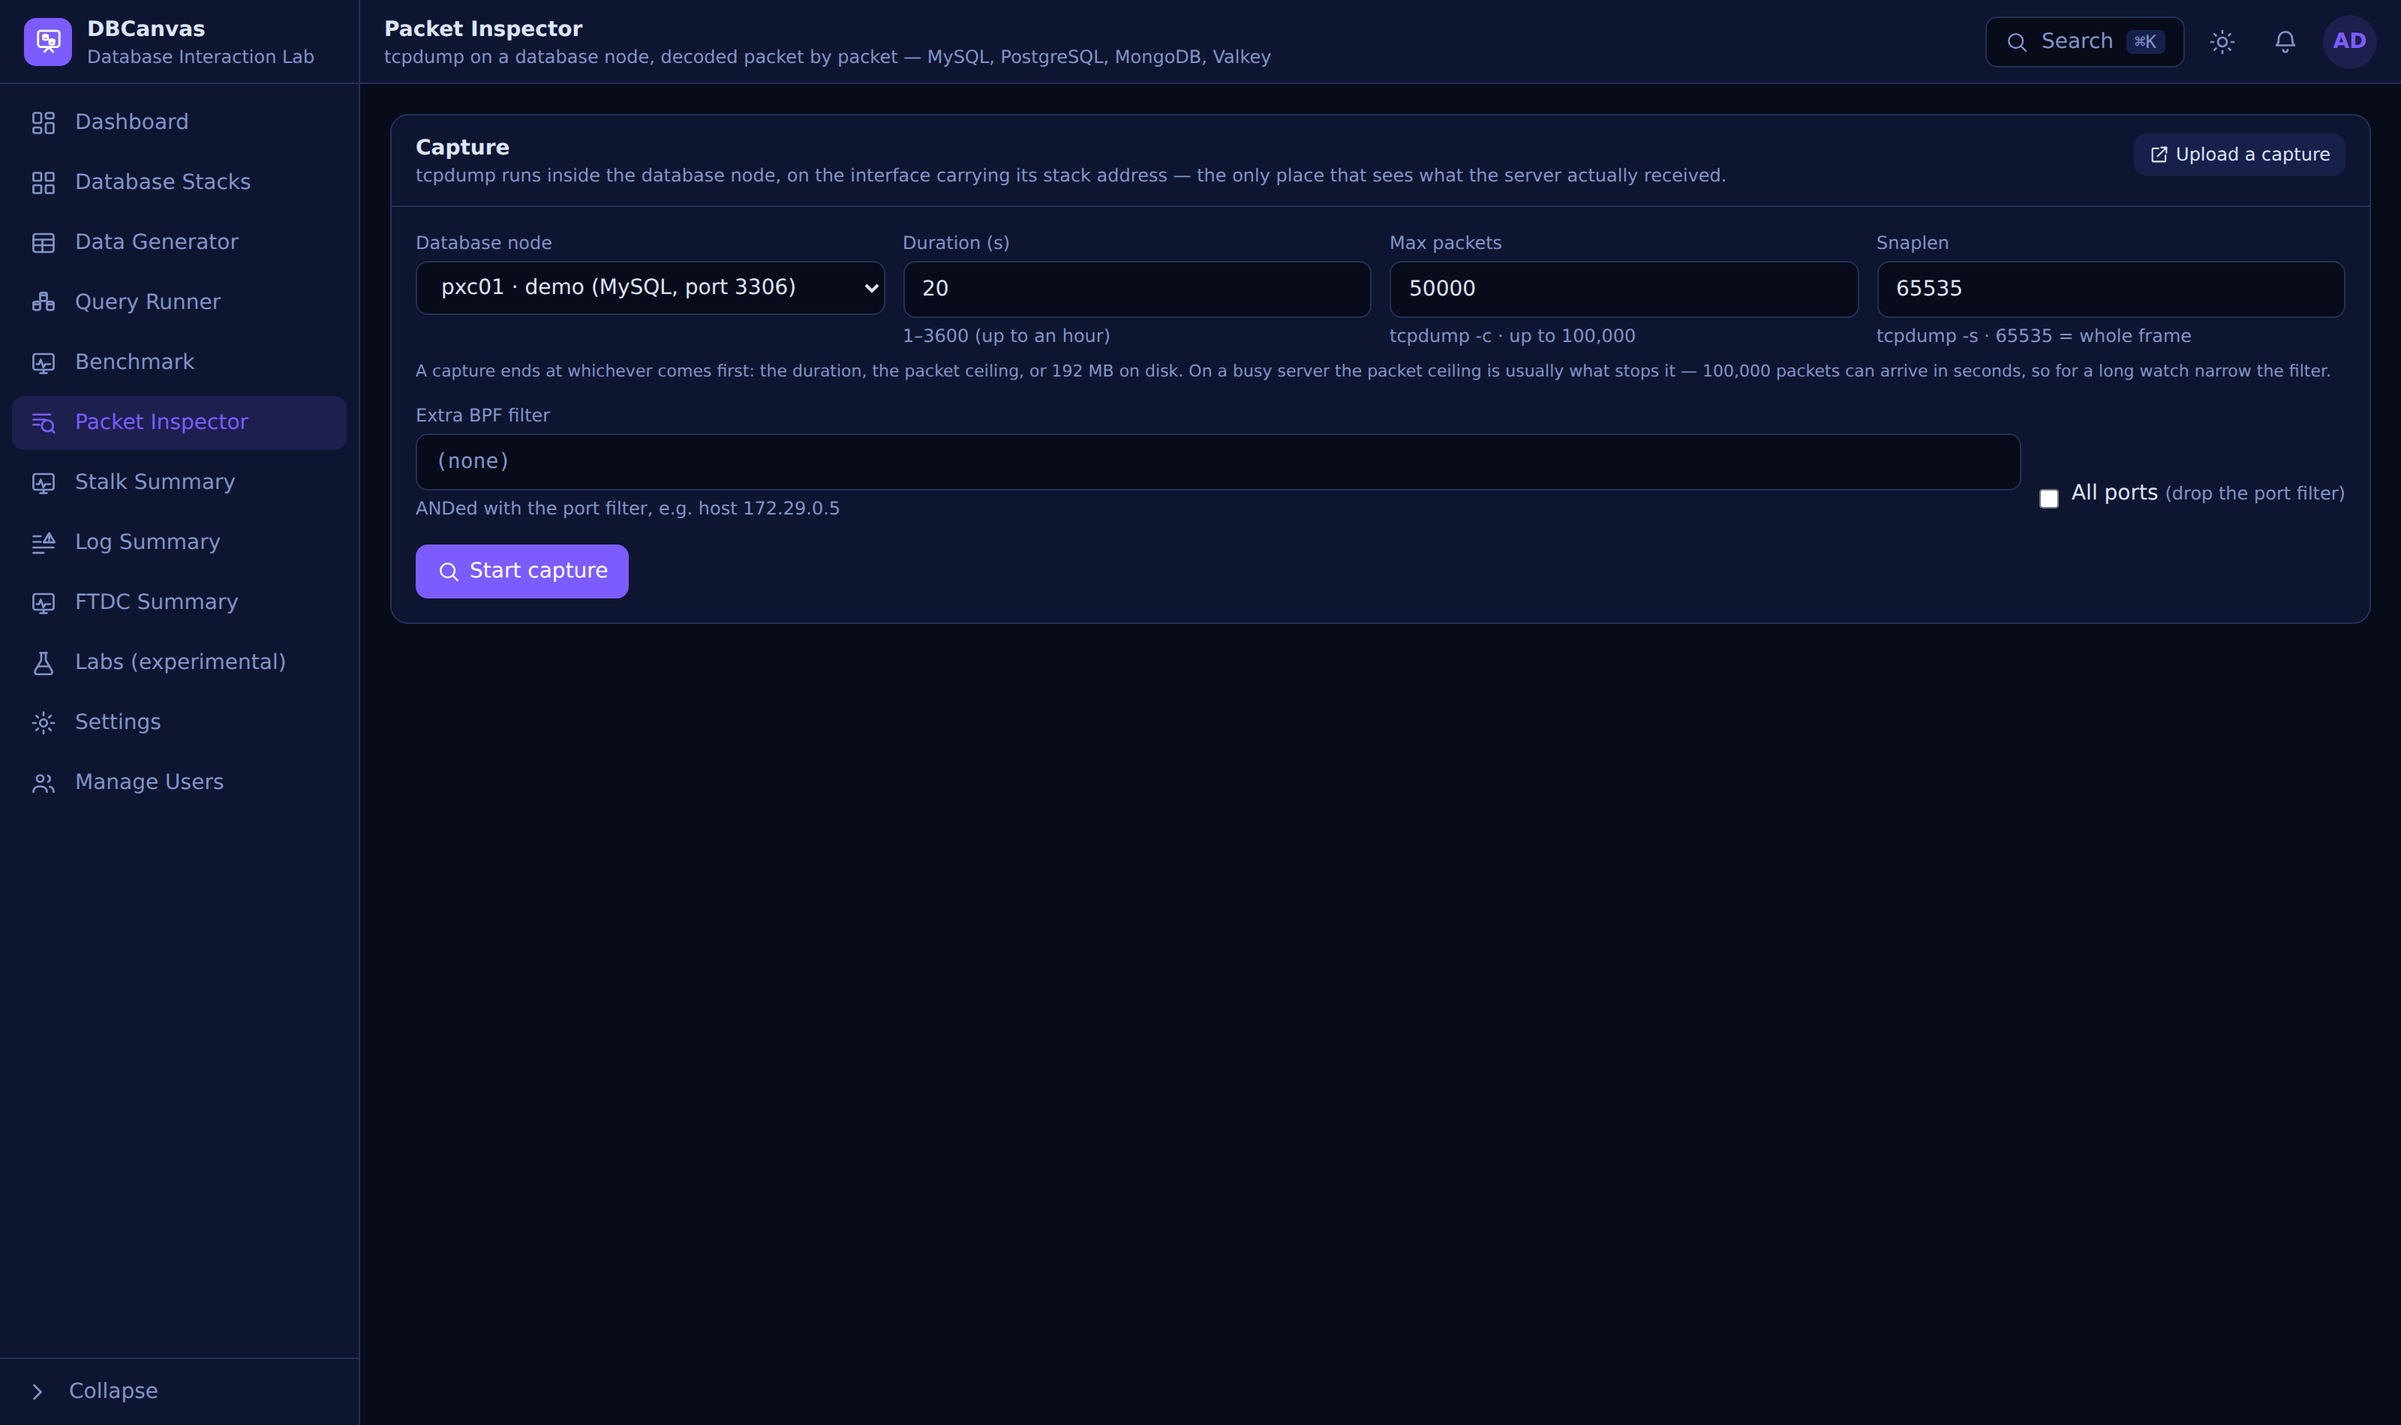
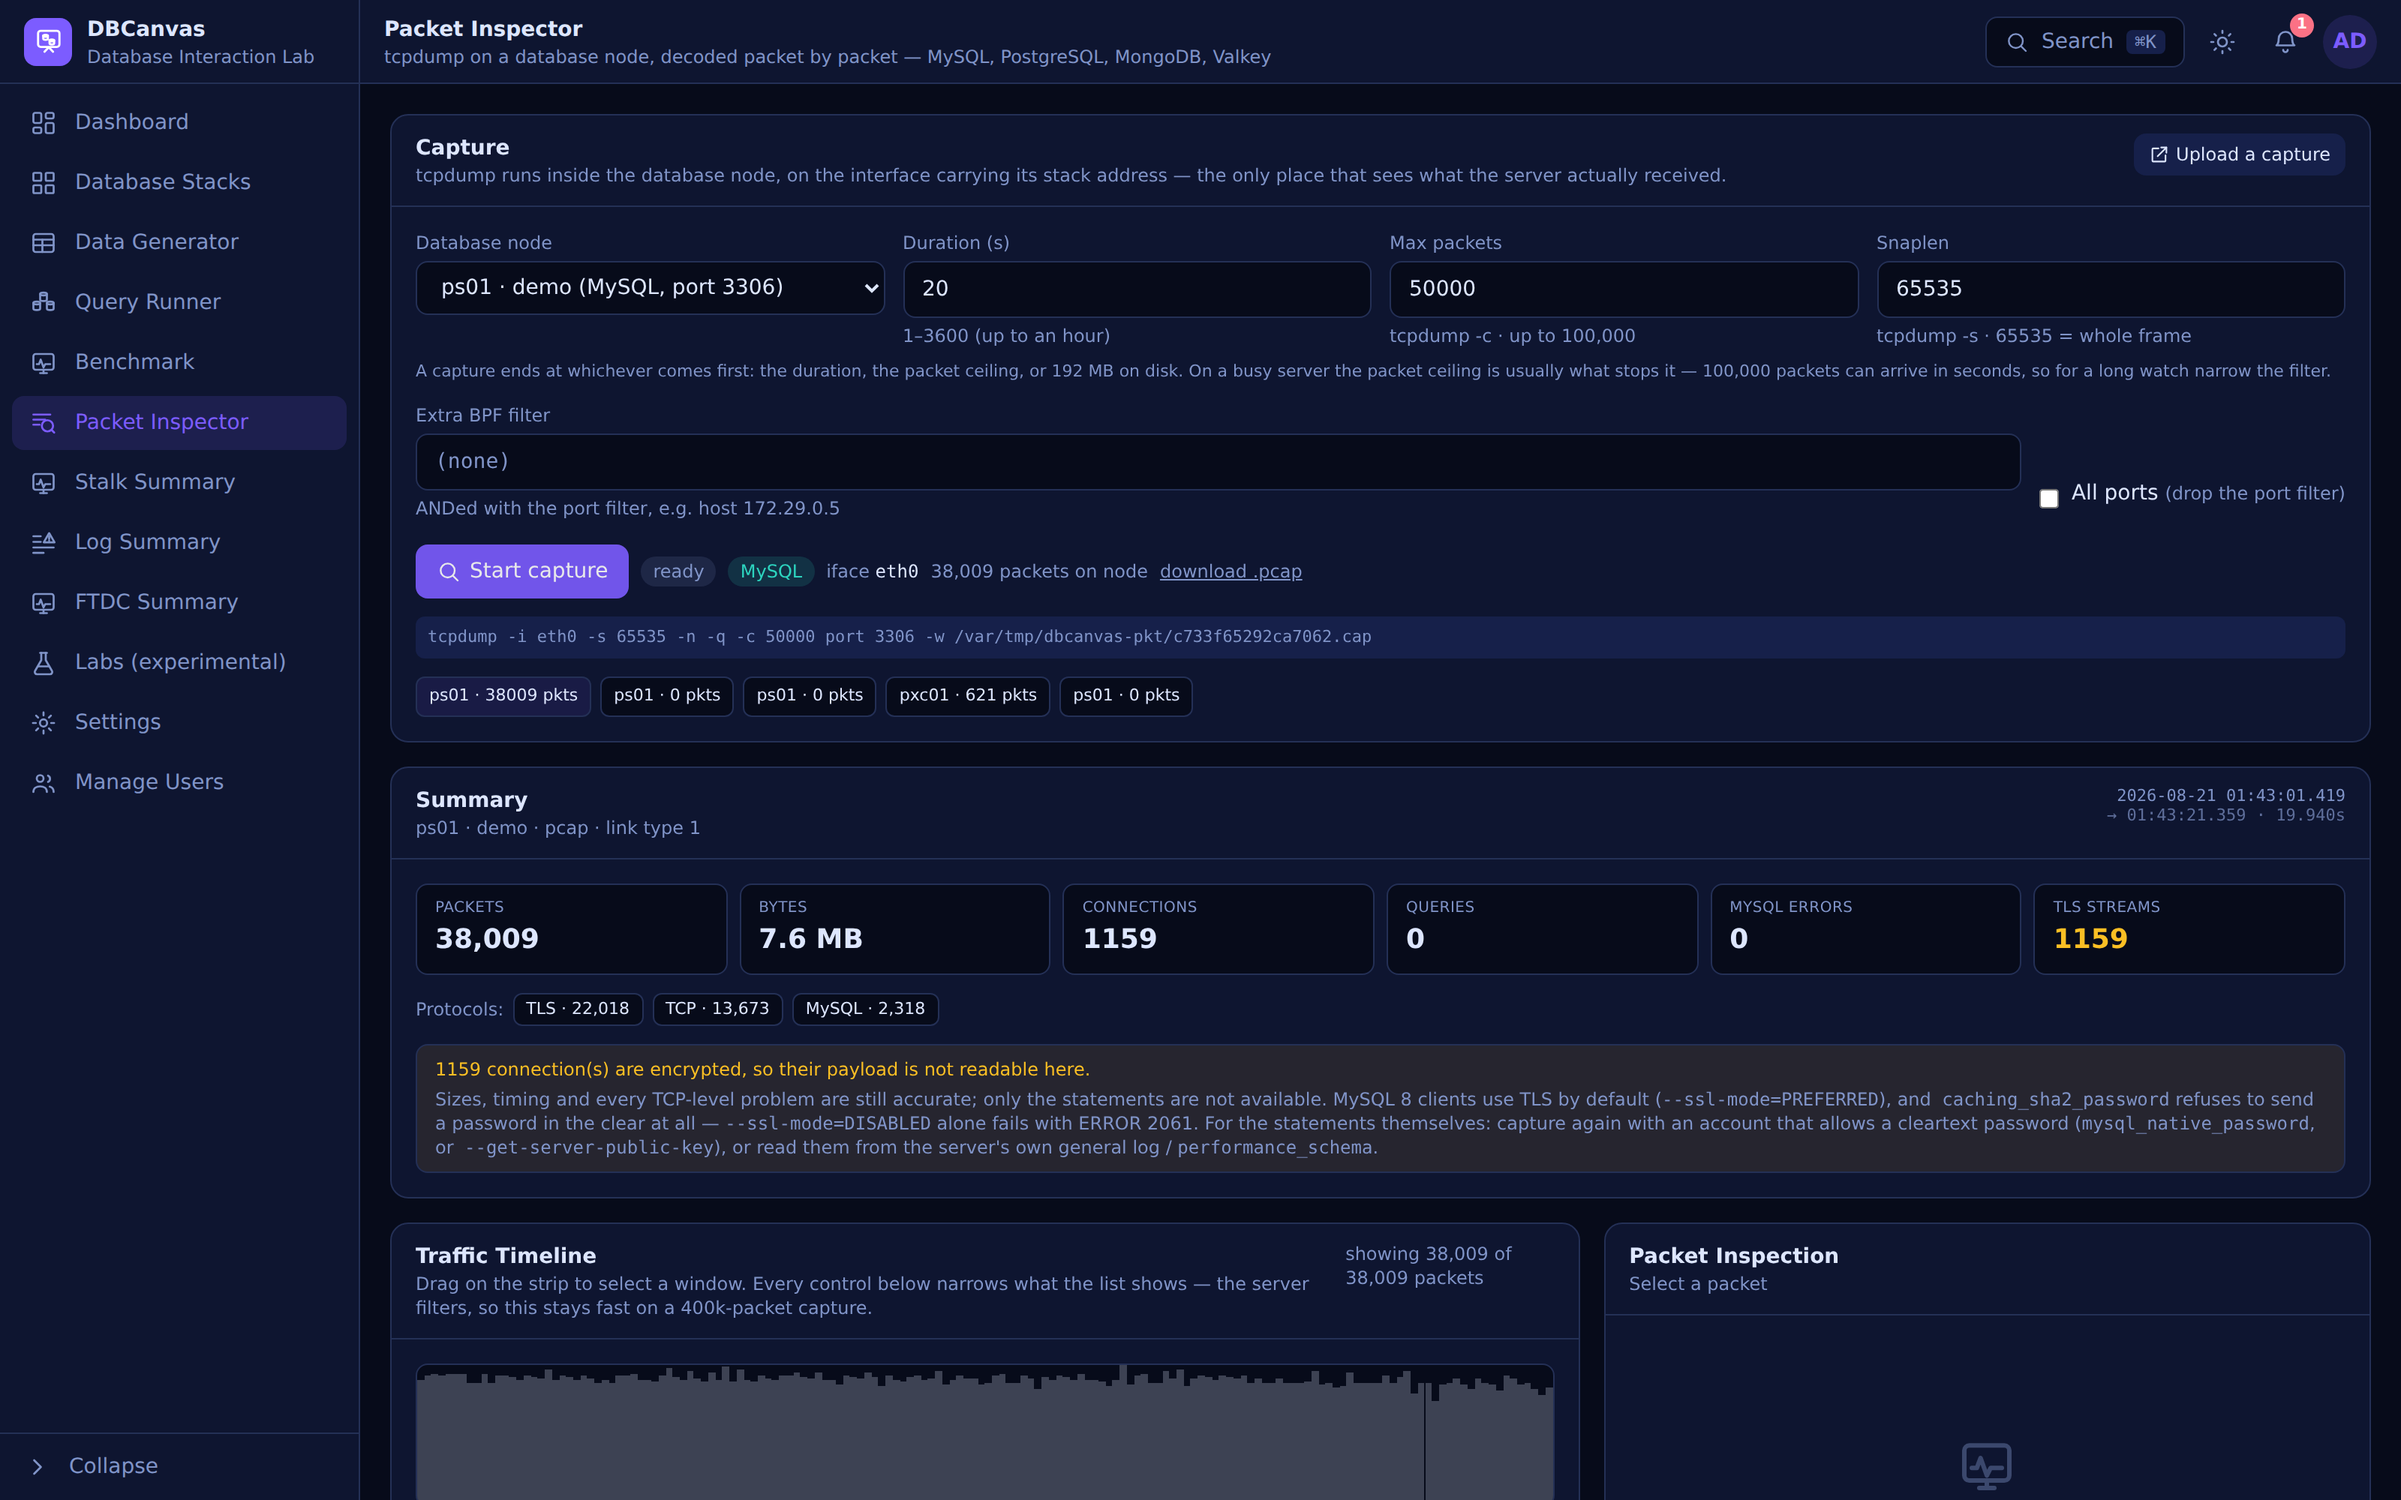
docs: packet inspector captures, and the file manager nobody documented
Takes the two Packet Inspector views the last session left. Three attempts:
a capture started through the API never appears on the page (it lives in
component state, so it has to be started from the UI being photographed);
traffic generated inside the captured node goes over loopback while tcpdump
watches eth0, so it must come from another container; and the load has to
outlast the capture window, which a 500-iteration loop did not.

Driven from pxc01 at ps01 for 200s, the capture took 38,009 packets over
1,159 connections, every one encrypted — MySQL 8 clients negotiate TLS by
default. The summary says so and explains how to capture statements anyway,
which is a truer screenshot than a staged plaintext session. The detail view
carries the packet list, the inspection panel and the server error log in one
frame. A third image was kept from the run that captured pxc01 by mistake: a
Galera member on all four of its ports.

The gap worth finding: drag-and-drop file copy and the file manager were in
no document at all, despite being how a config gets onto a node without a
shell. Both are now in the Stacks guide, with screenshots.

diff --git a/IMPLEMENTATION.md b/IMPLEMENTATION.md
@@ -16704,3 +16704,39 @@ be produced.
   `docs/screenshots/` is unreferenced.
 - Session 289's write-up was corrected in place: it claimed the eight could not be re-shot
   honestly, which was not true.
+
+## 292. The last two Packet Inspector screenshots, and the file manager nobody had written down — `docs/{STACKS,PACKET_INSPECTOR,README}.md`, `docs/screenshots/*`
+
+The two views session 291 left untaken are taken. Getting them needed three attempts, and the
+failures are the interesting part:
+
+- A capture started through the API does not appear on the page — it holds the current capture
+  in component state — so the capture has to be started from the UI it is being photographed
+  in.
+- Traffic generated *inside* the node being captured produces nothing: a client connecting to
+  its own hostname goes over loopback, and `tcpdump` is on `eth0`. The load has to come from
+  another container.
+- The load then has to outlast the capture window. A 500-iteration loop finished during the
+  browser's login, so the first correctly-aimed capture still recorded zero packets.
+
+With the traffic driven from `pxc01` at `ps01` for 200 seconds, the capture took 38,009 packets
+across 1,159 connections — **every one of them encrypted**, because MySQL 8 clients negotiate
+TLS by default. The summary says exactly that and explains how to capture statements anyway,
+which makes a better screenshot than a staged plaintext session would have: it is what a real
+capture against a modern client looks like. The detail view came out carrying the packet list,
+the inspection panel and the server error log in one frame, so it covers what was going to be
+two images. A third was kept from the run that captured `pxc01` by mistake — a Galera member on
+all four of its ports, which no other engine shows.
+
+**And the gap that was actually worth finding.** Drag-and-drop file copy and the file manager
+appeared in no document at all — not the README, not any guide — despite being how you get a
+config onto a node without a shell. They are now in the Stacks guide with both screenshots: a
+file dropped on a node offering `/`, `/home`, `/root`, `/tmp`, and the file manager browsing a
+node with its node picker, split-pane transfer and in-place editing.
+
+### Verified
+
+- Every link across `README.md` and `docs/*.md` resolves; no screenshot is unreferenced.
+- Both new screenshots are of the real features on the running demo stack — the drop dialog
+  names `desktop01` and the file size it was given, and the file manager lists that node's
+  filesystem with "10 running nodes in this stack" in its header.

diff --git a/docs/STACKS.md b/docs/STACKS.md
@@ -236,6 +236,26 @@ sessions survive navigation and can be docked or floated (**Settings** picks whi
 
 ![A live per-node web terminal, querying the cluster it is running on](screenshots/terminal.png)
 
+**Getting files onto a node.** Drag a file — or a whole folder — from your desktop onto a node
+on the canvas. DBCanvas asks where to put it and copies it in; there is no scp, no bind mount
+and no shell involved:
+
+![Dropping a file on a node — DBCanvas asks which directory to copy it into](screenshots/file-drop.png)
+
+> *A dropped file offers the destinations worth having on that node (`/`, `/home`, `/root`,
+> `/tmp`), and the drop names the node so a mis-aimed drag is obvious before it happens.*
+
+**The file manager.** Right-click a running node and choose **File manager** for a full browser
+over its filesystem: navigate, upload and download, create files and folders, rename, change
+permissions and ownership, delete — and **edit a file in place**, which is usually what you
+actually want when a config is one line wrong.
+
+![The File Manager browsing a node's filesystem](screenshots/file-manager.png)
+
+> *Every running node in the stack is in the picker at the top left, so you can move between
+> them without closing the window. **Split** opens a second pane on another node and copies
+> between the two — the fastest way to put the same file on every member of a cluster.*
+
 **Monitoring with PMM.** Add a PMM node and point databases at it; DB nodes register
 themselves, so Percona Monitoring & Management comes up already watching the stack:
 

diff --git a/docs/PACKET_INSPECTOR.md b/docs/PACKET_INSPECTOR.md
@@ -6,7 +6,22 @@ times, and the network problems underneath them — retransmissions, gaps, reset
 windows. It's for the question "what actually crossed the wire, and what did the
 server say back", which neither the slow log nor `SHOW PROCESSLIST` can answer.
 
-![The Packet Inspector — a capture decoded packet by packet](screenshots/packet-inspector.png)
+![A finished capture, summarised — and honest about what TLS hides](screenshots/packet-inspector.png)
+
+> *A 20-second capture on a Percona Server node: 38,009 packets, 1,159 connections, and every
+> one of them encrypted. The summary says so, and says what to do about it, rather than showing
+> an empty query list.*
+
+![The decoded packet list, the inspection panel, and the server's own error log](screenshots/packet-inspector-detail.png)
+
+> *Selecting a frame shows its timing, its TCP state, a payload summary and a hex dump. Below it
+> the node's own error log is read and narrowed to the capture's window — the place where the
+> things packets cannot show (aborted connections, DNS, TLS, the listener) are recorded.*
+
+![A PXC member captured on all four of its ports](screenshots/packet-inspector-galera.png)
+
+> *A Galera member speaks four protocols on four ports, and a capture on a PXC node takes all
+> four: 3306 for clients, 4444 for SST, 4567 for group communication, 4568 for IST.*
 
 Open it from the sidebar (**Packet Inspector**) or at `#packet-inspector`.
 

diff --git a/docs/README.md b/docs/README.md
@@ -8,7 +8,7 @@ How to use each part of DBCanvas. For installing and configuring it, see
 
 | Guide | What it covers |
 | --- | --- |
-| [Stacks](STACKS.md) | The canvas, every node and cluster type, deploying, TTLs, node panels, and the Docker/hybrid backends. |
+| [Stacks](STACKS.md) | The canvas, every node and cluster type, deploying, TTLs, node panels, web terminals, drag-and-drop file copy, the file manager, and the Docker/hybrid backends. |
 | [All in One](ALL_IN_ONE.md) | Many database instances inside a single node — versions and engines side by side. |
 
 ## Load and exercise them
